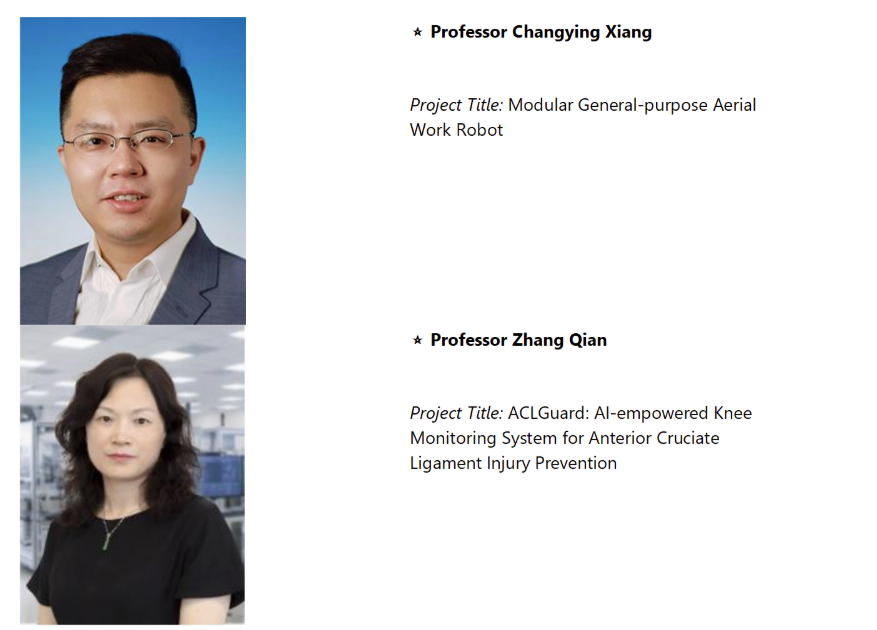
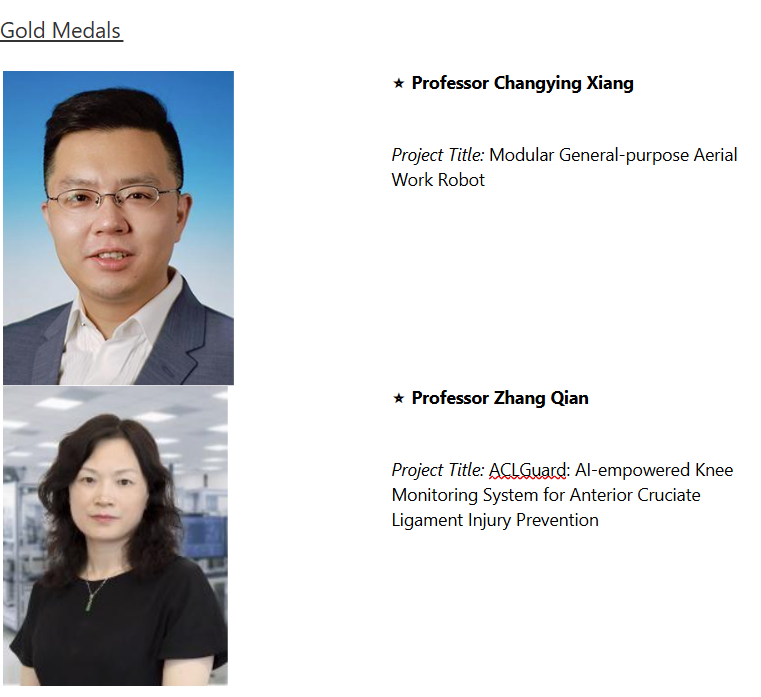
Change carousel

diff --git a/src/components/Carousel.tsx b/src/components/Carousel.tsx
@@ -66,13 +66,12 @@ export default function Carousel({ images, imagesAlt }: CarouselProps) {
         <>
             {/* Image Layer */}
             <div className="absolute -z-1 w-full lg:h-full h-[260px]">
-                
                 {images.map((image, index) => (
                     <Image
                         key={index}
                         src={image}
                         alt={`Carousel Image ${index + 1}`}
-                        className={`object-cover w-full h-full absolute transition-opacity linear duration-1000 ${
+                        className={`object-contain w-full h-full absolute transition-opacity linear duration-1000 ${
                             index === currentIndex ? 'opacity-100' : 'opacity-0'
                         }`}
                     />
@@ -84,7 +83,7 @@ export default function Carousel({ images, imagesAlt }: CarouselProps) {
                             src={image}
                             key={index}
                             alt={`Carousel Image ${index + 1}`}
-                            className={`object-cover w-full h-full absolute transition-opacity linear duration-1000 ${
+                            className={`object-contain w-full h-full absolute transition-opacity linear duration-1000 ${
                                 index === currentIndex
                                     ? 'opacity-100'
                                     : 'opacity-0'
